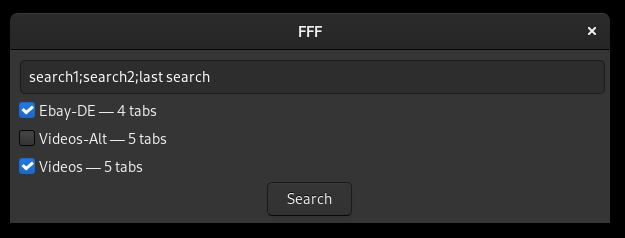
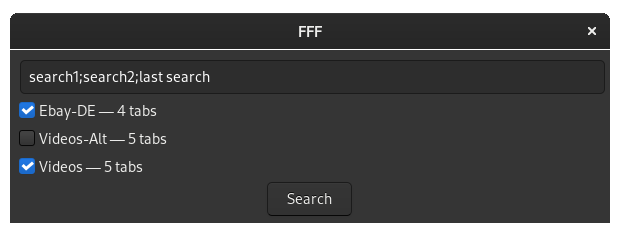
adding transparency to the screenshot and centering it in the README

Changed region(s): [[0.0, 0.0, 1.0, 1.0]]

diff --git a/README.md b/README.md
@@ -1,7 +1,8 @@
 # FFF aka stuFF Finder
 
-![FFF](./Screenshot.png)
-
+<p align="center">
+  <img src="./Screenshot.png" alt="FFF"/>
+</p>
 
 A Bash script that automatically search stuff on the desired websites, by opening new tabs in the default browser.
 
